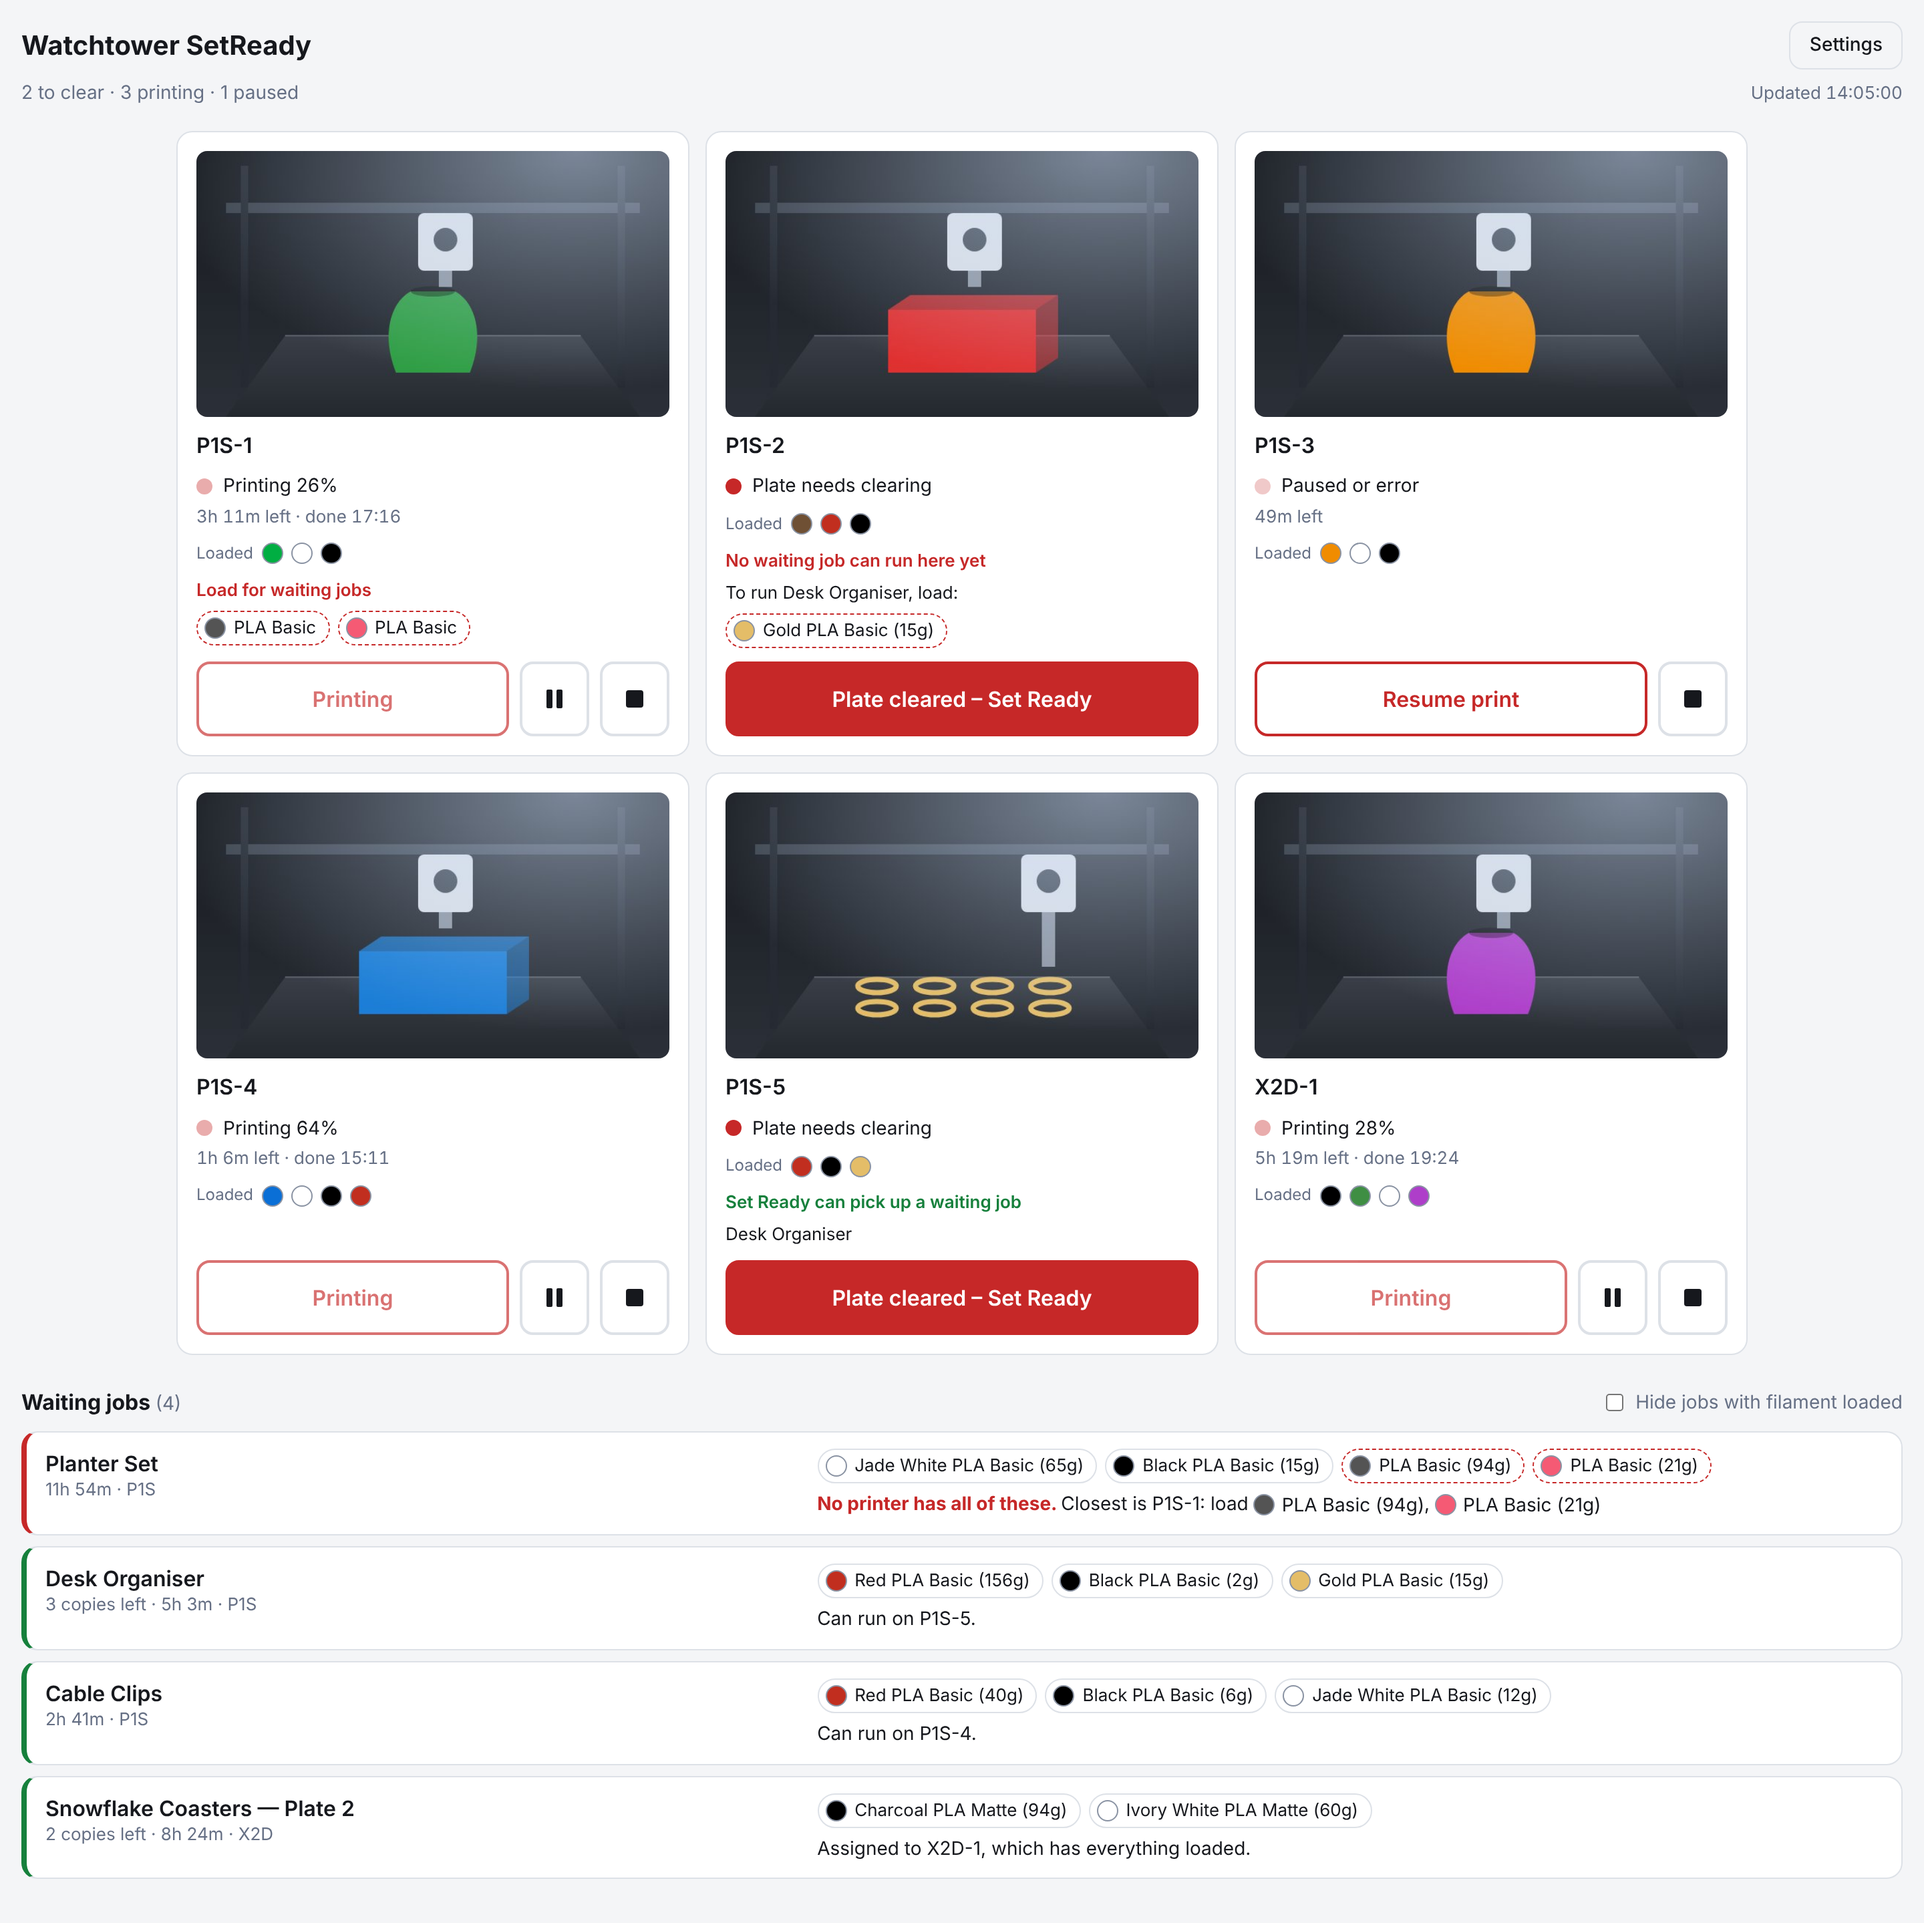
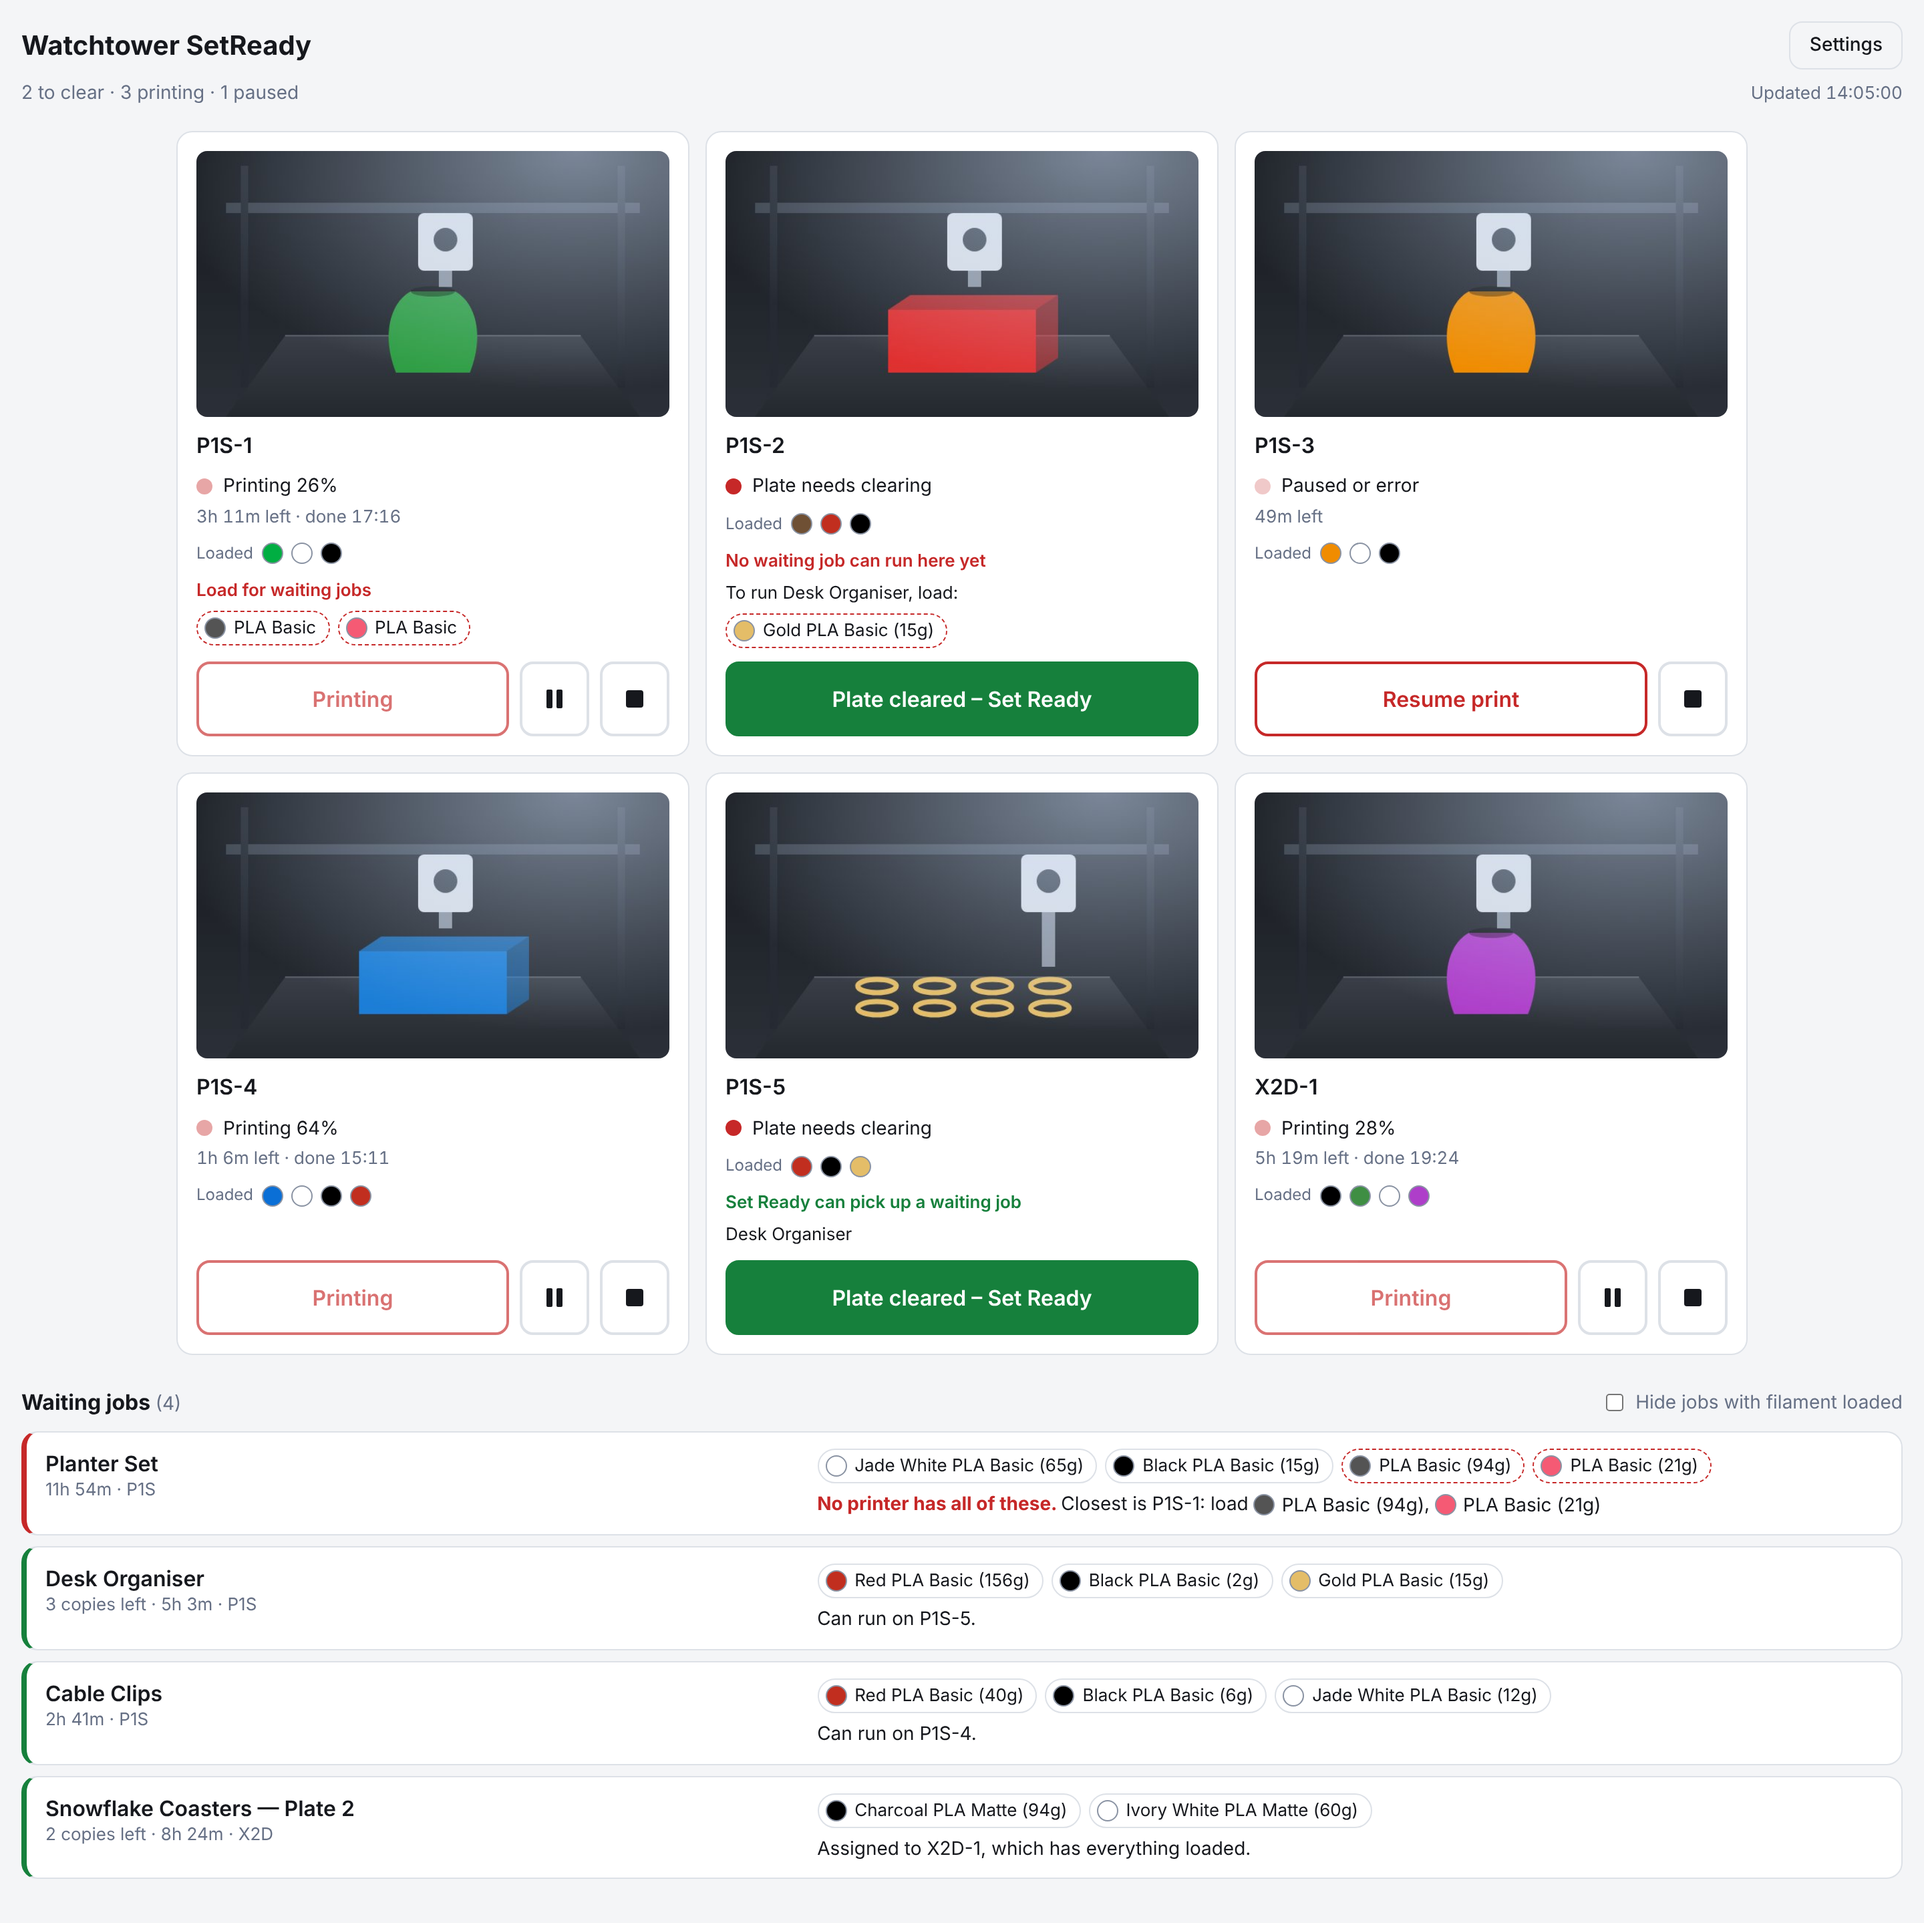
Make the Set Ready button green so it stands out

Changed region(s): [[0.375, 0.6494, 0.625, 0.7113], [0.375, 0.3402, 0.625, 0.402]]

diff --git a/index.html b/index.html
@@ -8,11 +8,11 @@
 <style>
   :root {
     --bg: #f4f5f7; --card: #fff; --text: #16181d; --muted: #667085; --line: #dde1e7;
-    --green: #16803c; --red: #c62828; --amber: #b26a00; --grey: #8a93a3;
+    --green: #16803c; --go: #16803c; --red: #c62828; --amber: #b26a00; --grey: #8a93a3;
   }
   @media (prefers-color-scheme: dark) {
     :root { --bg: #111317; --card: #1b1e24; --text: #eceef2; --muted: #9aa3b2; --line: #2c313a;
-            --green: #35b765; --red: #ef5350; --amber: #f0a22e; --grey: #6b7484; }
+            --green: #35b765; --go: #1c8f45; --red: #ef5350; --amber: #f0a22e; --grey: #6b7484; }
   }
   :root { --page: 1900px; }
   * { box-sizing: border-box; }
@@ -61,7 +61,9 @@
   .paused button { cursor: pointer; opacity: 1; }
   .paused.armed button { background: var(--red); color: #fff; }
   .paused button:hover { filter: brightness(1.1); }
-  .plate button { background: var(--red); color: #fff; cursor: pointer; opacity: 1; }
+  /* Set Ready is the one button you are meant to press, so it is solid green. */
+  .plate button { background: var(--go); border-color: var(--go); color: #fff; cursor: pointer;
+                  opacity: 1; }
   .plate button:hover { filter: brightness(1.1); }
   .plate button:active { transform: translateY(1px); }
   button:focus-visible { outline: 3px solid var(--text); outline-offset: 2px; }

diff --git a/README.md b/README.md
@@ -114,7 +114,7 @@ same name. Environment variables win.
 | Card | Meaning | Buttons |
 |---|---|---|
 | Green | Ready for the next job | Nothing to do |
-| Solid red, filled button | Plate waiting to be cleared | **Plate cleared – Set Ready**: press once the plate is clear |
+| Red dot, solid green button | Plate waiting to be cleared | **Plate cleared – Set Ready**: press once the plate is clear |
 | Red, slow pulse | Printing, with progress, time left and finish time | Small **pause** and **stop** buttons |
 | Red, fast blink | Paused or error, with time left | **Resume print** and a small **stop** button |
 | Amber | Watchtower reports the printer offline | None |
